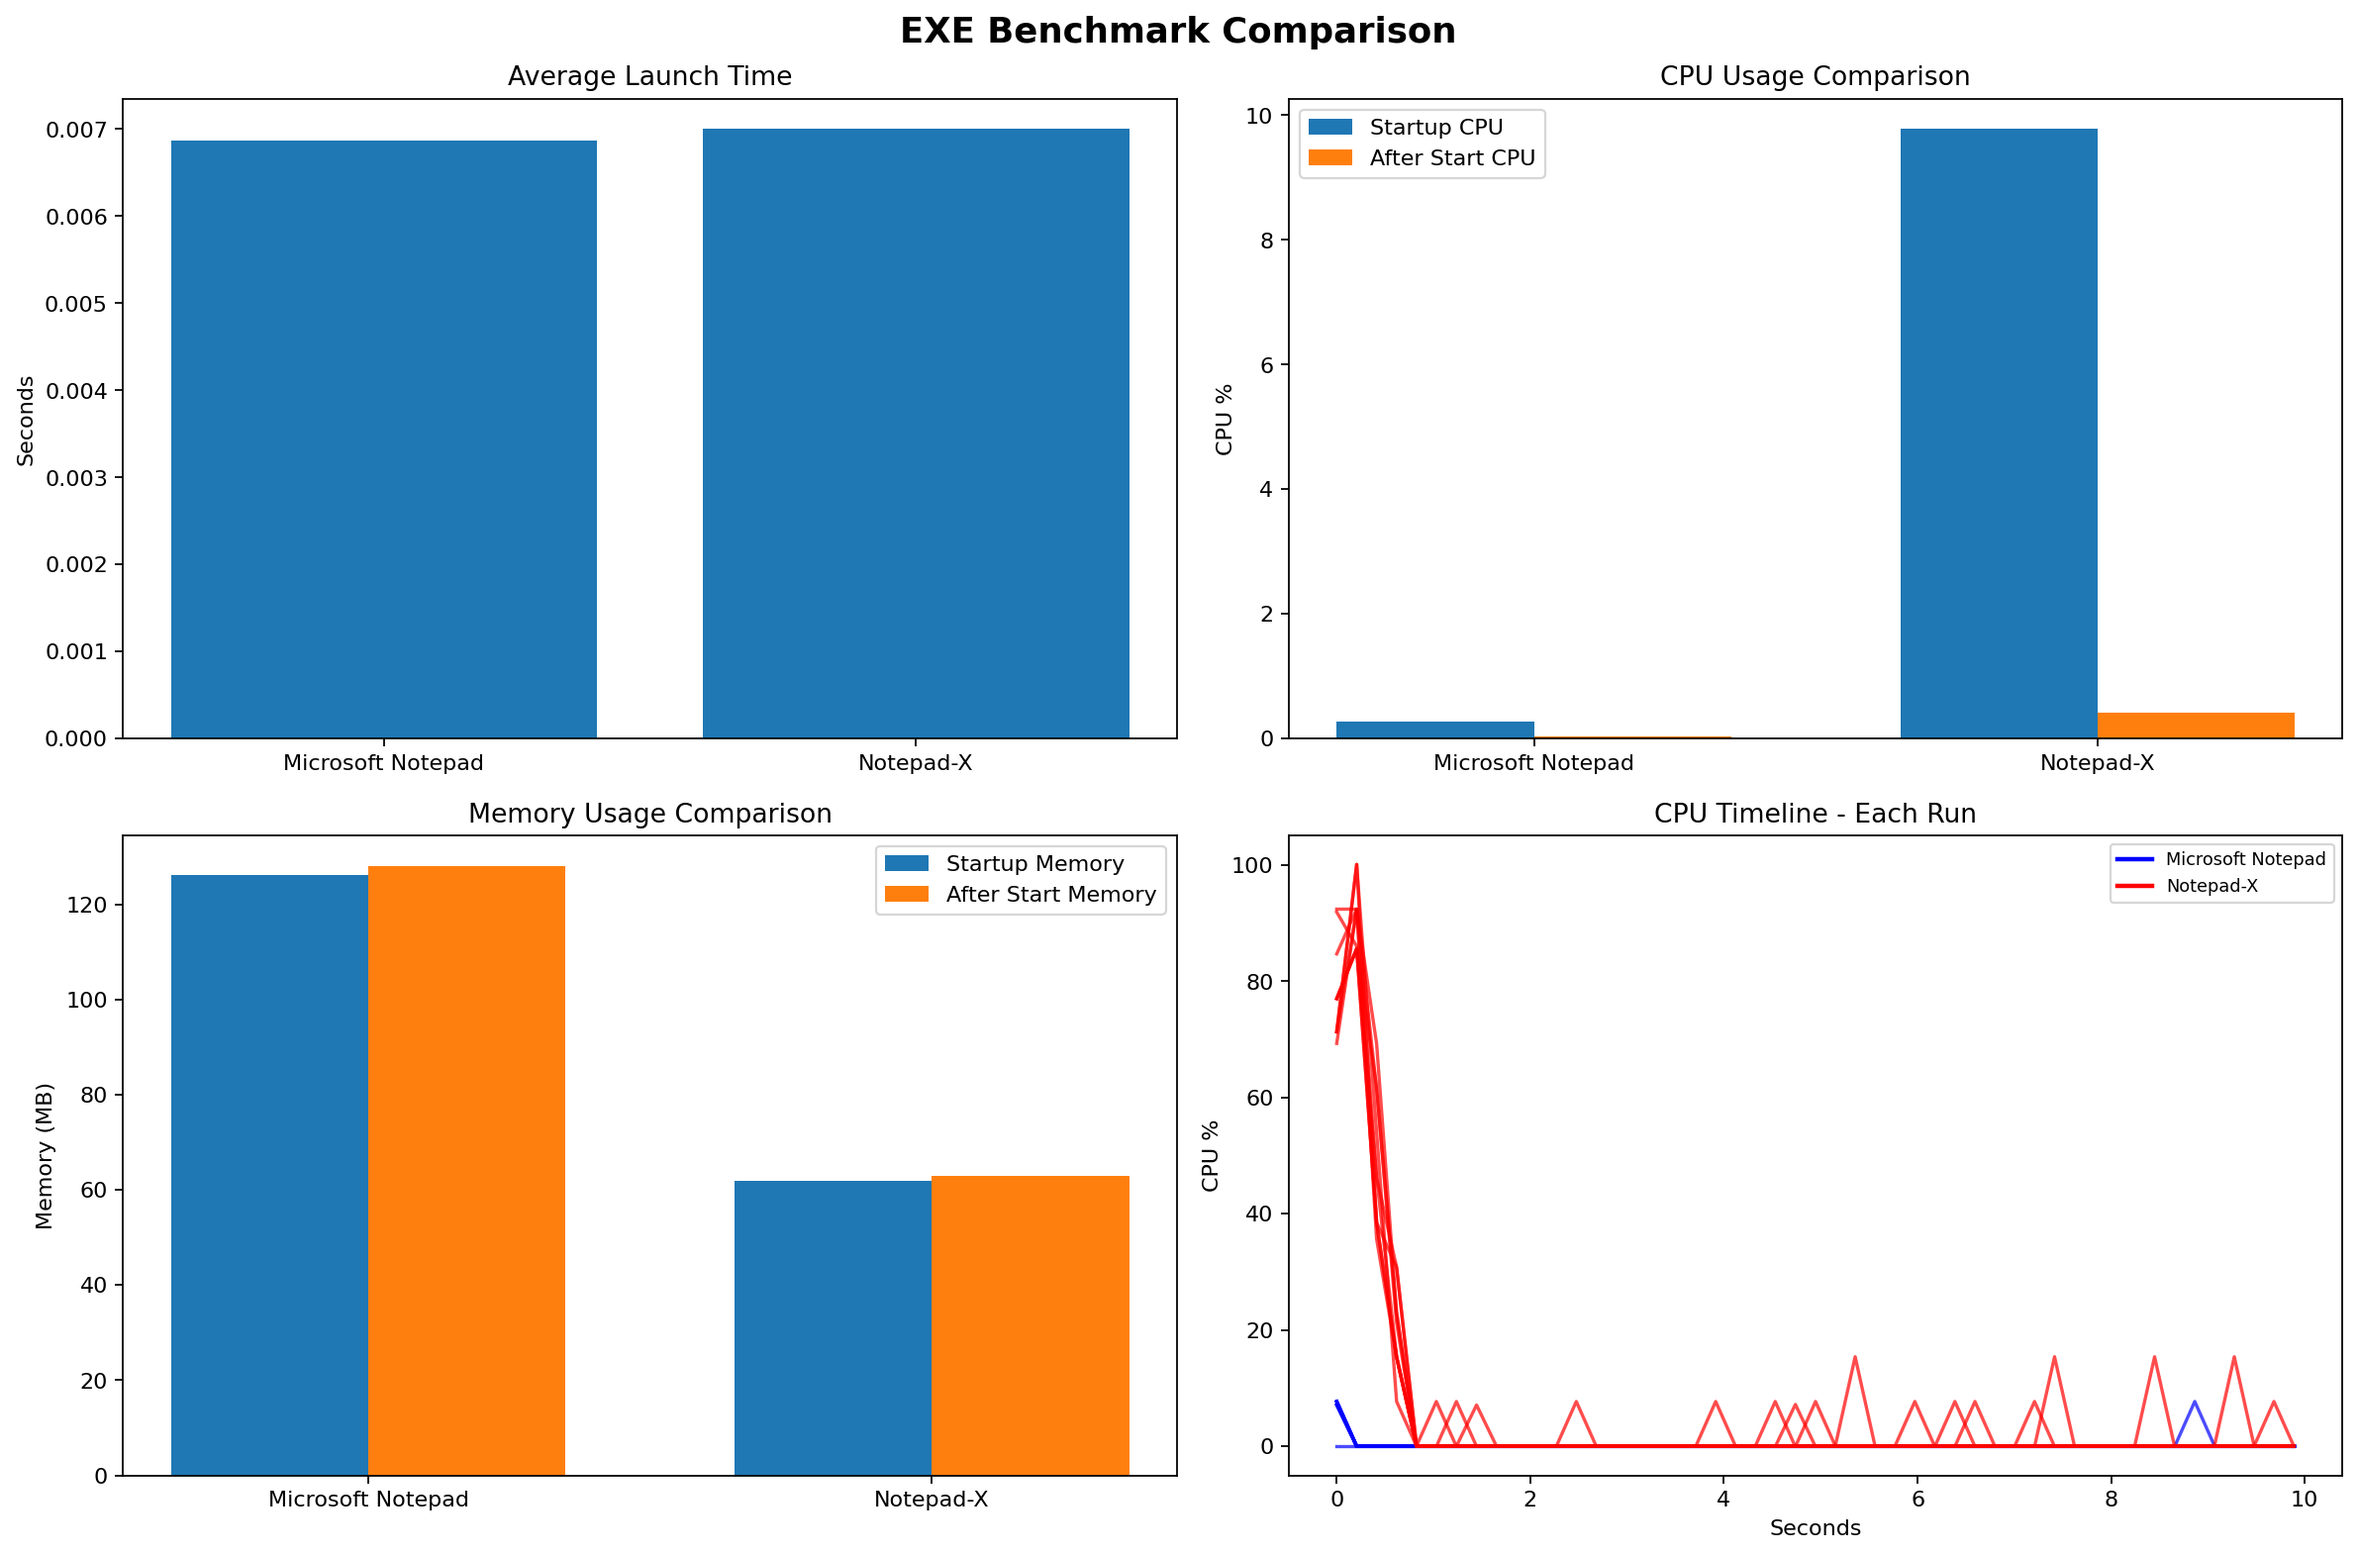
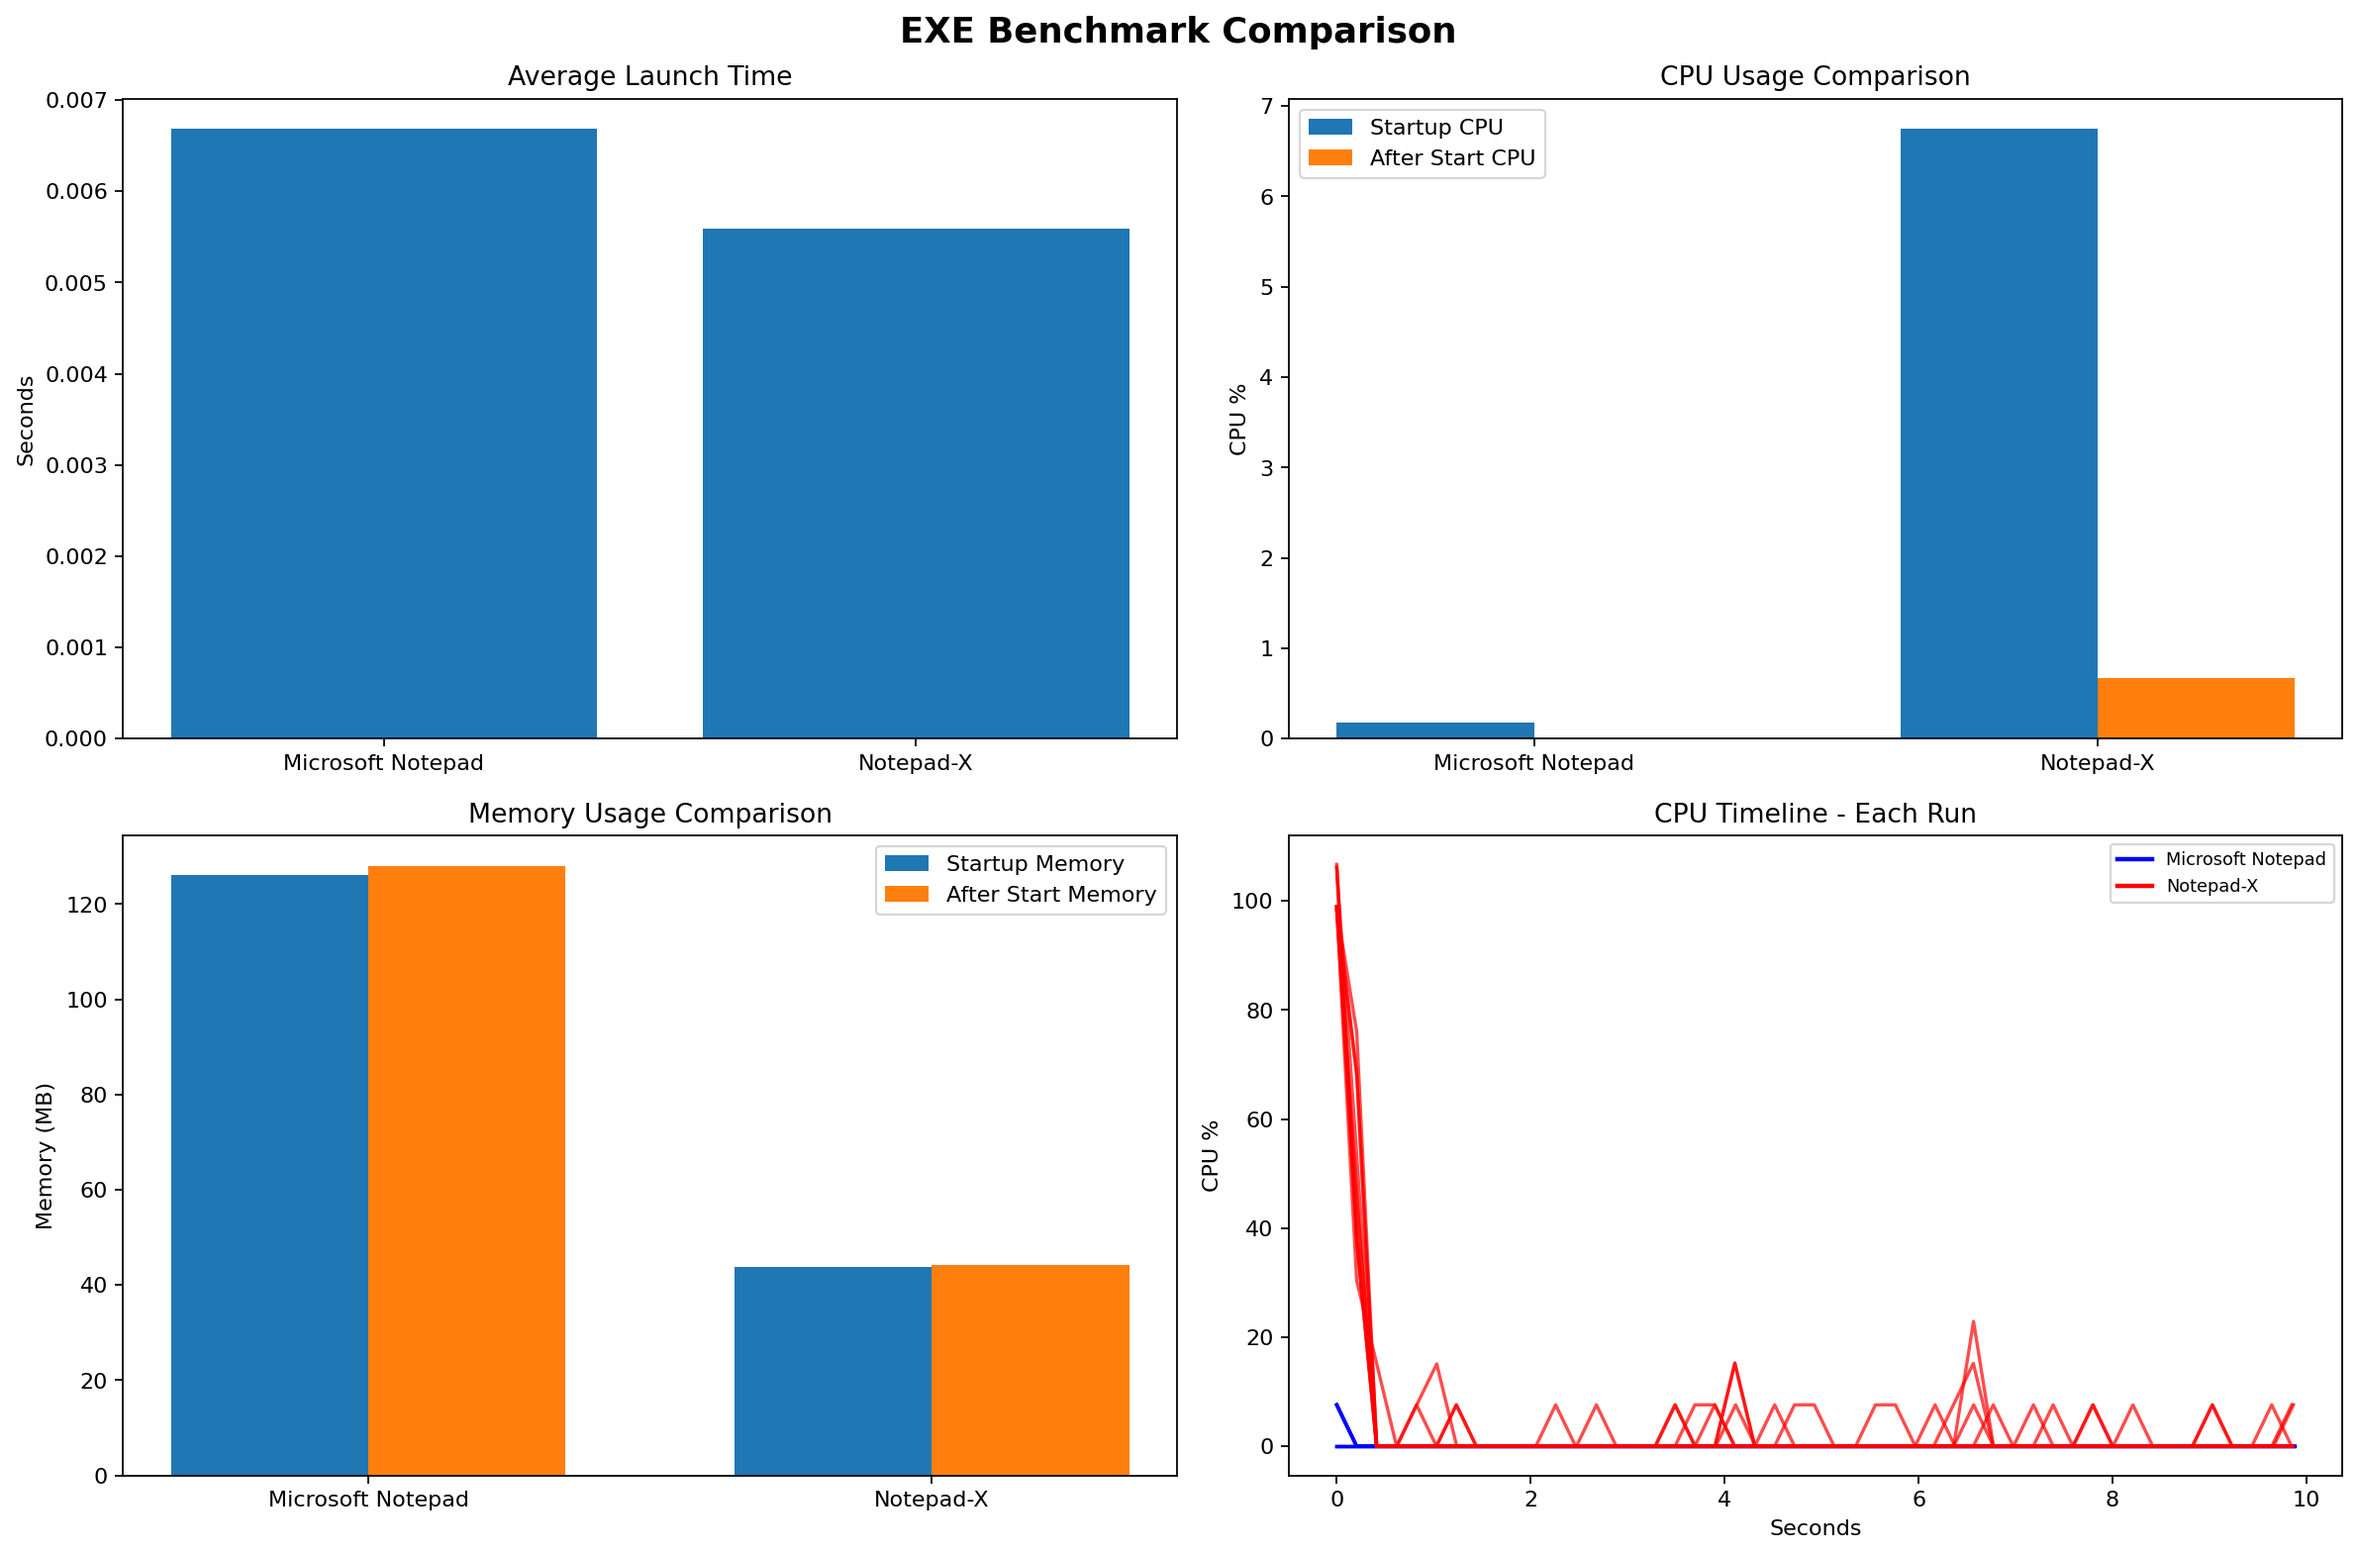
Update benchmark image and README results

diff --git a/README.md b/README.md
@@ -8,7 +8,7 @@ It keeps a simple desktop-editor feel, but adds project opening, persistent sess
 
 ![EXE benchmark comparison](gfx/exe_benchmark.png)
 
-This benchmark is a point-in-time comparison between the packaged Notepad-X build and Microsoft Notepad. The chart shows launch timing, CPU activity, and memory usage for that specific run, so the exact results will vary depending on hardware, OS state, background load, and what each editor has to initialize at startup.
+This benchmark is a point-in-time comparison between the packaged Notepad-X build and Microsoft Notepad. In this run, Notepad-X launches a little faster, uses a much stronger CPU burst during startup, and settles at a far lower memory footprint both at launch and after startup. The exact numbers will still vary depending on hardware, OS state, background load, and what each editor has to initialize.
 
 ## Features
 
